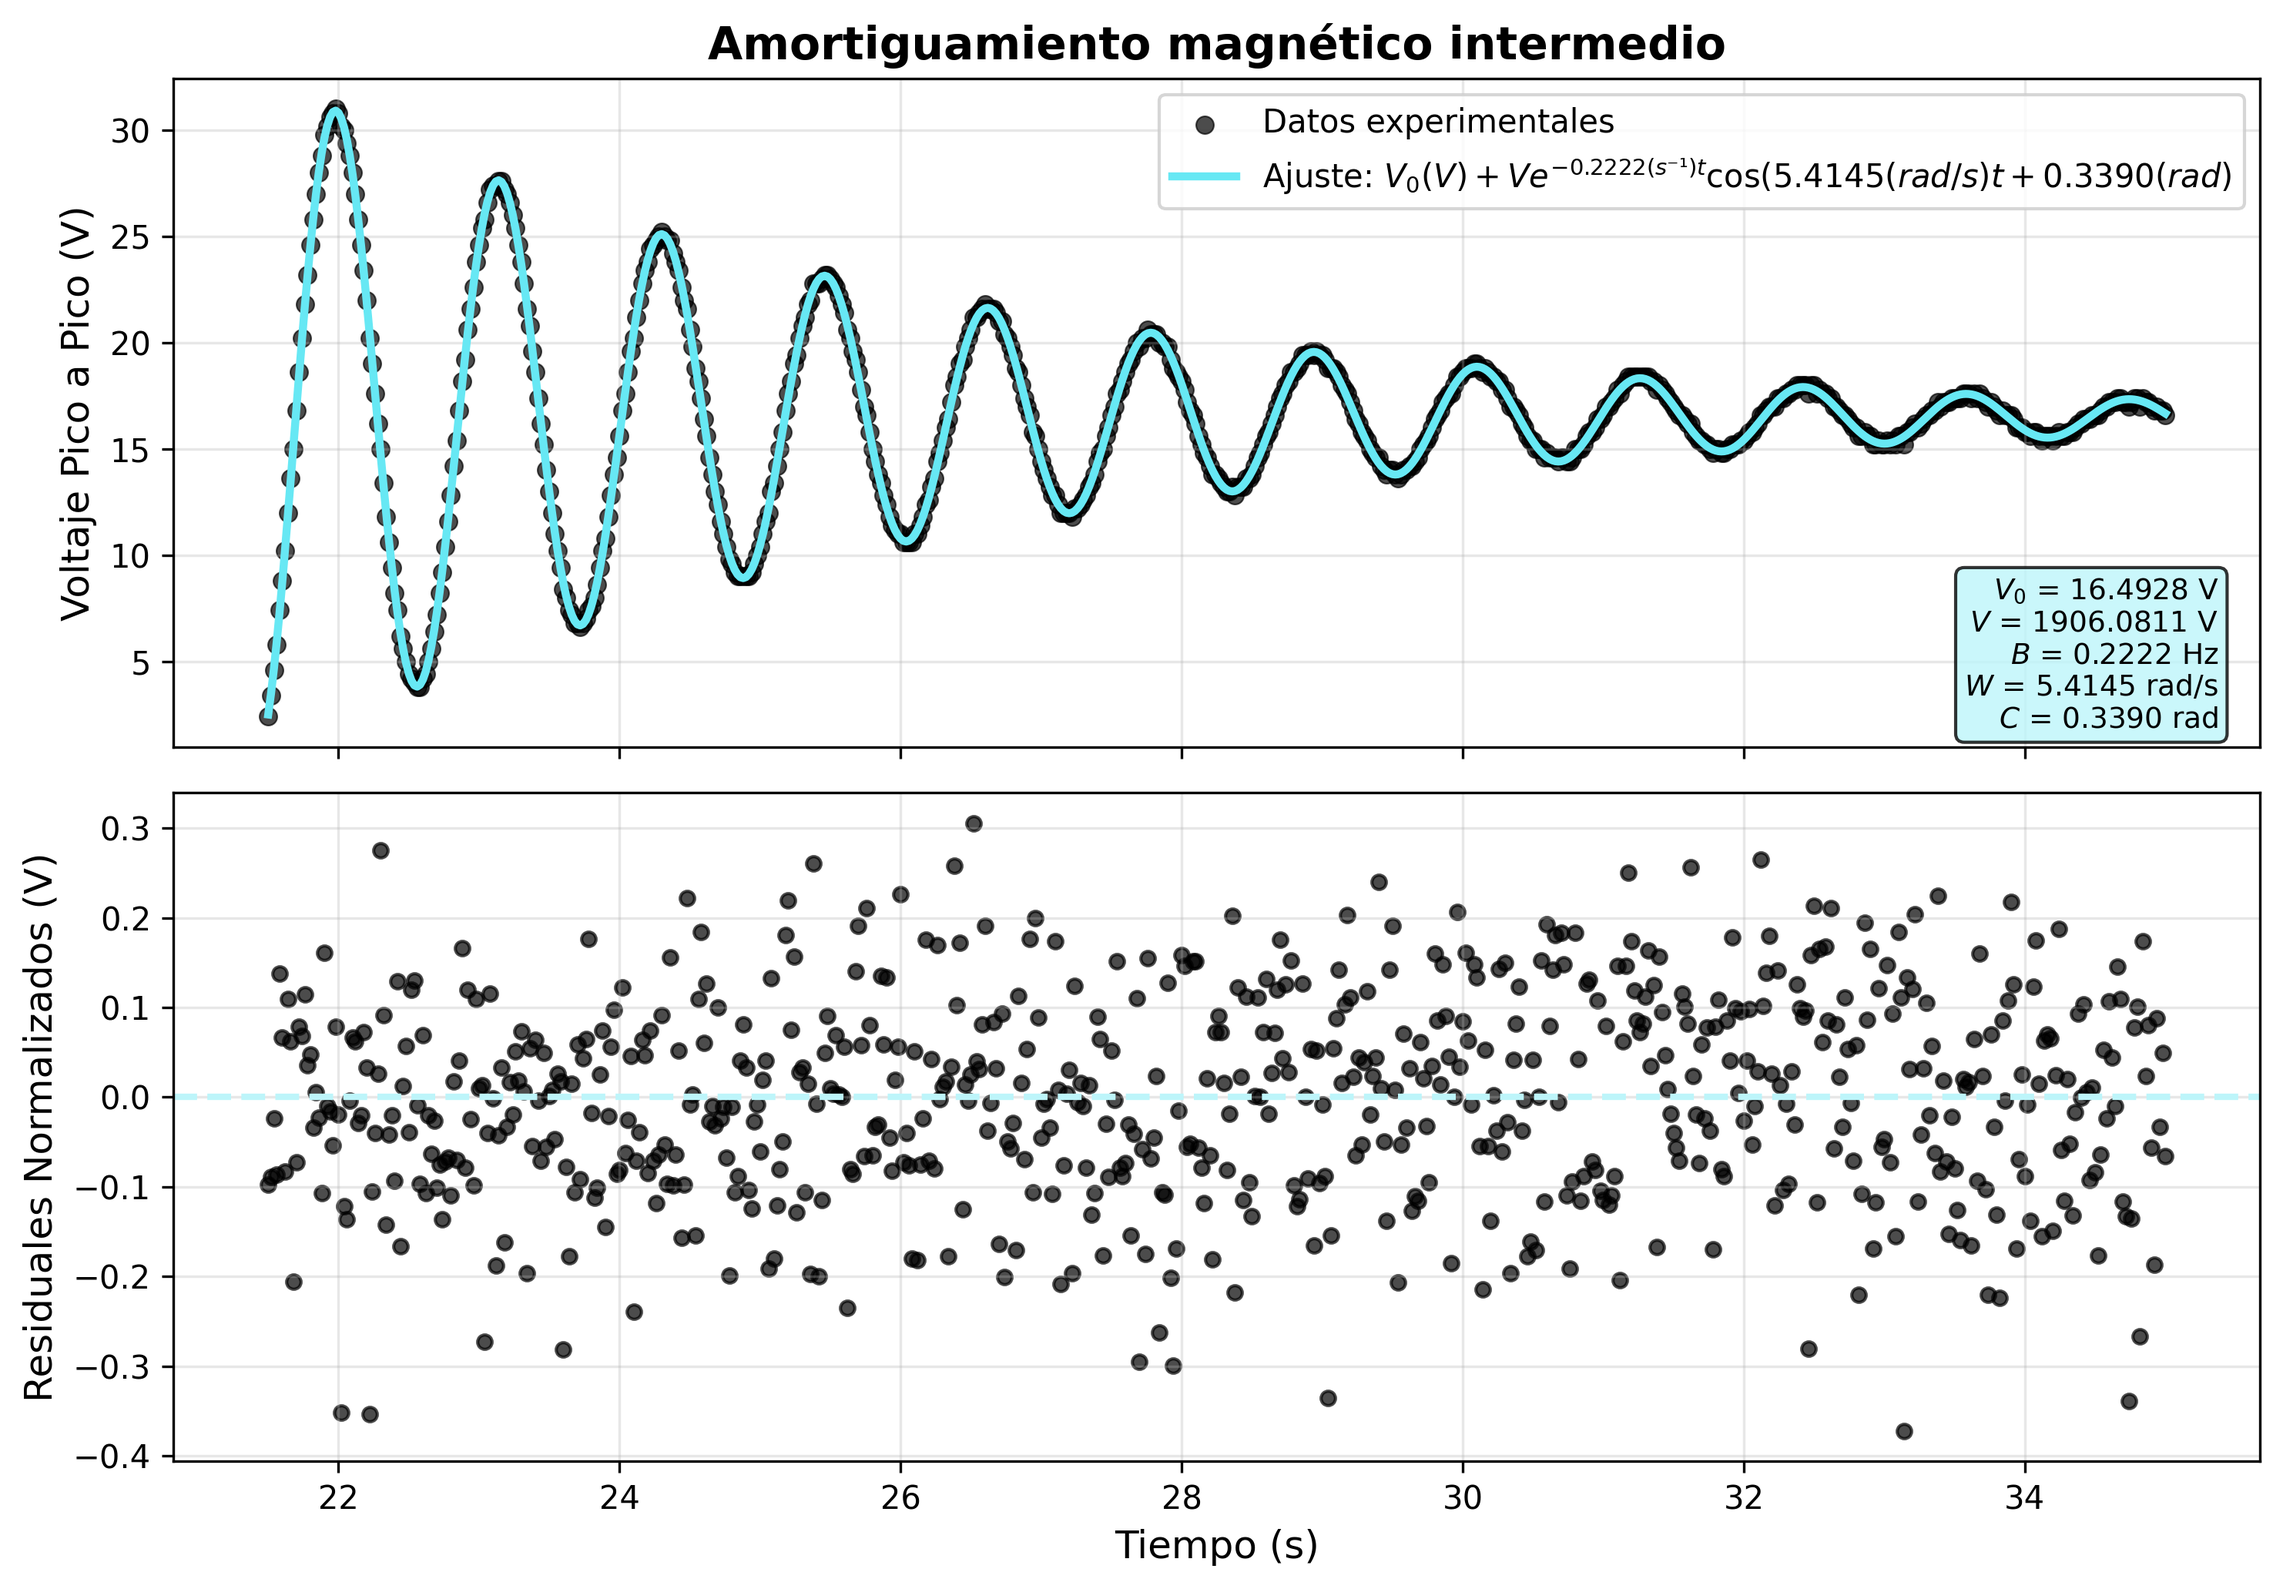
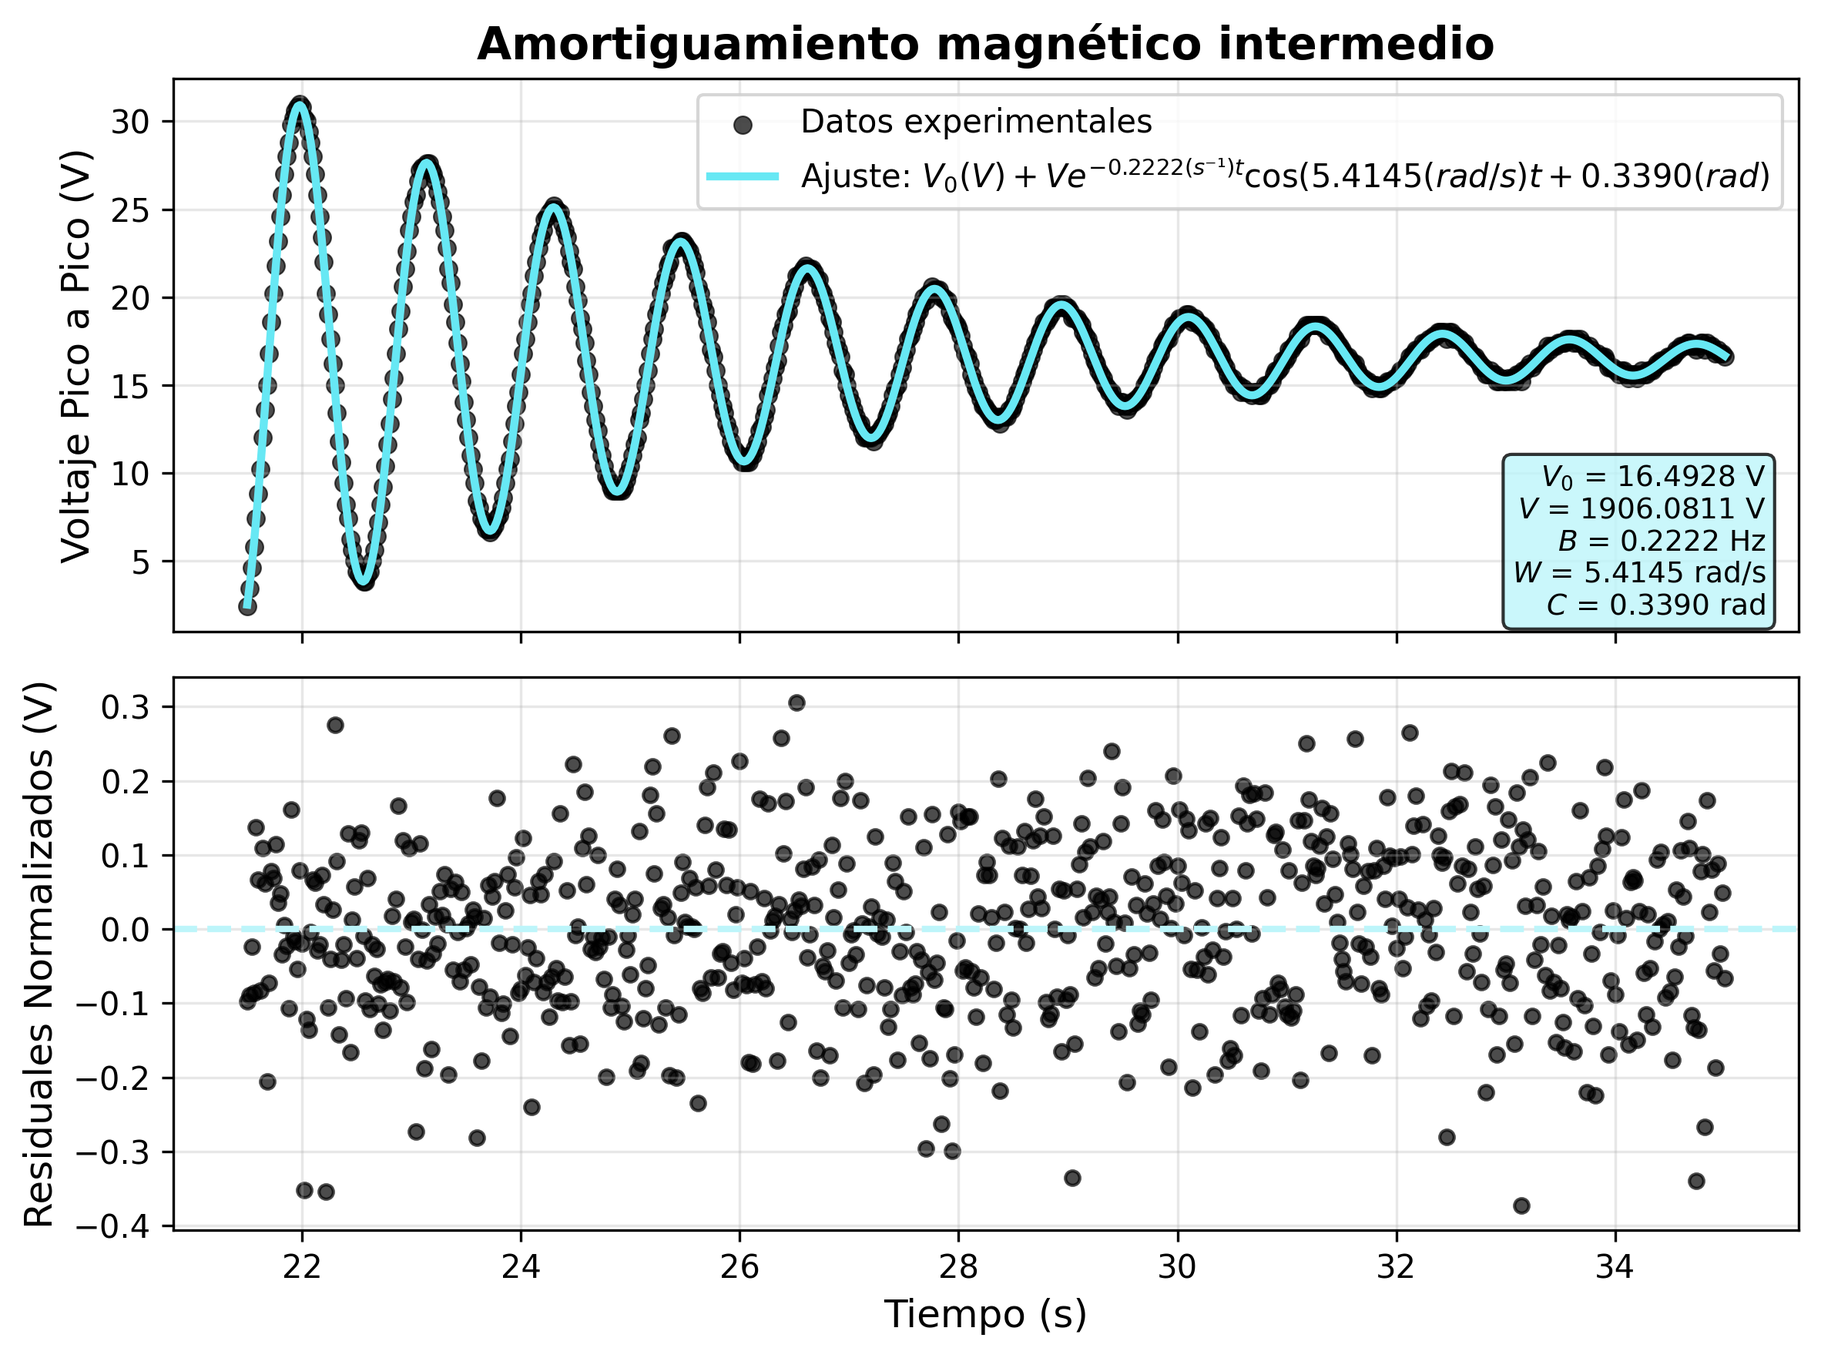
graficas ajustadas

diff --git a/actividad4_menor_amortiguamiento.py b/actividad4_menor_amortiguamiento.py
@@ -93,7 +93,7 @@ if archivo:
         std_residuales = np.std(resid)
         print(f"\nDesviación estándar de residuales: {std_residuales:.6f} V")
 
-        fig, (ax1, ax2) = plt.subplots(2, 1, figsize=(10, 7), sharex=True)
+        fig, (ax1, ax2) = plt.subplots(2, 1, figsize=(8, 6), sharex=True)
         fig.set_facecolor("white")
 
         ax1.scatter(x, y, color = 'black', s=30, alpha=0.7, label='Datos experimentales', edgecolors='black', linewidth=0.5)

diff --git a/actividad4_mayor_amortiguamiento.py b/actividad4_mayor_amortiguamiento.py
@@ -95,7 +95,7 @@ if archivo:
             print(f"\nDesviación estándar de residuales: {std_residuales:.6f} V")
             
             # ======== GRÁFICAS MEJORADAS ========
-            fig, (ax1, ax2) = plt.subplots(2, 1, figsize=(12, 8))
+            fig, (ax1, ax2) = plt.subplots(2, 1, figsize=(8, 6))
             fig.set_facecolor("white")
             
             # Gráfica 1: Ajuste en el rango 6-18s

diff --git a/actividad4_amortiguamiento_intermedio.py b/actividad4_amortiguamiento_intermedio.py
@@ -93,7 +93,7 @@ if archivo:
         std_residuales = np.std(resid)
         print(f"\nDesviación estándar de residuales: {std_residuales:.6f} V")
 
-        fig, (ax1, ax2) = plt.subplots(2, 1, figsize=(10, 7), sharex=True)
+        fig, (ax1, ax2) = plt.subplots(2, 1, figsize=(8, 6), sharex=True)
         fig.set_facecolor("white")
 
         ax1.set_xlim(8.5, 30)
